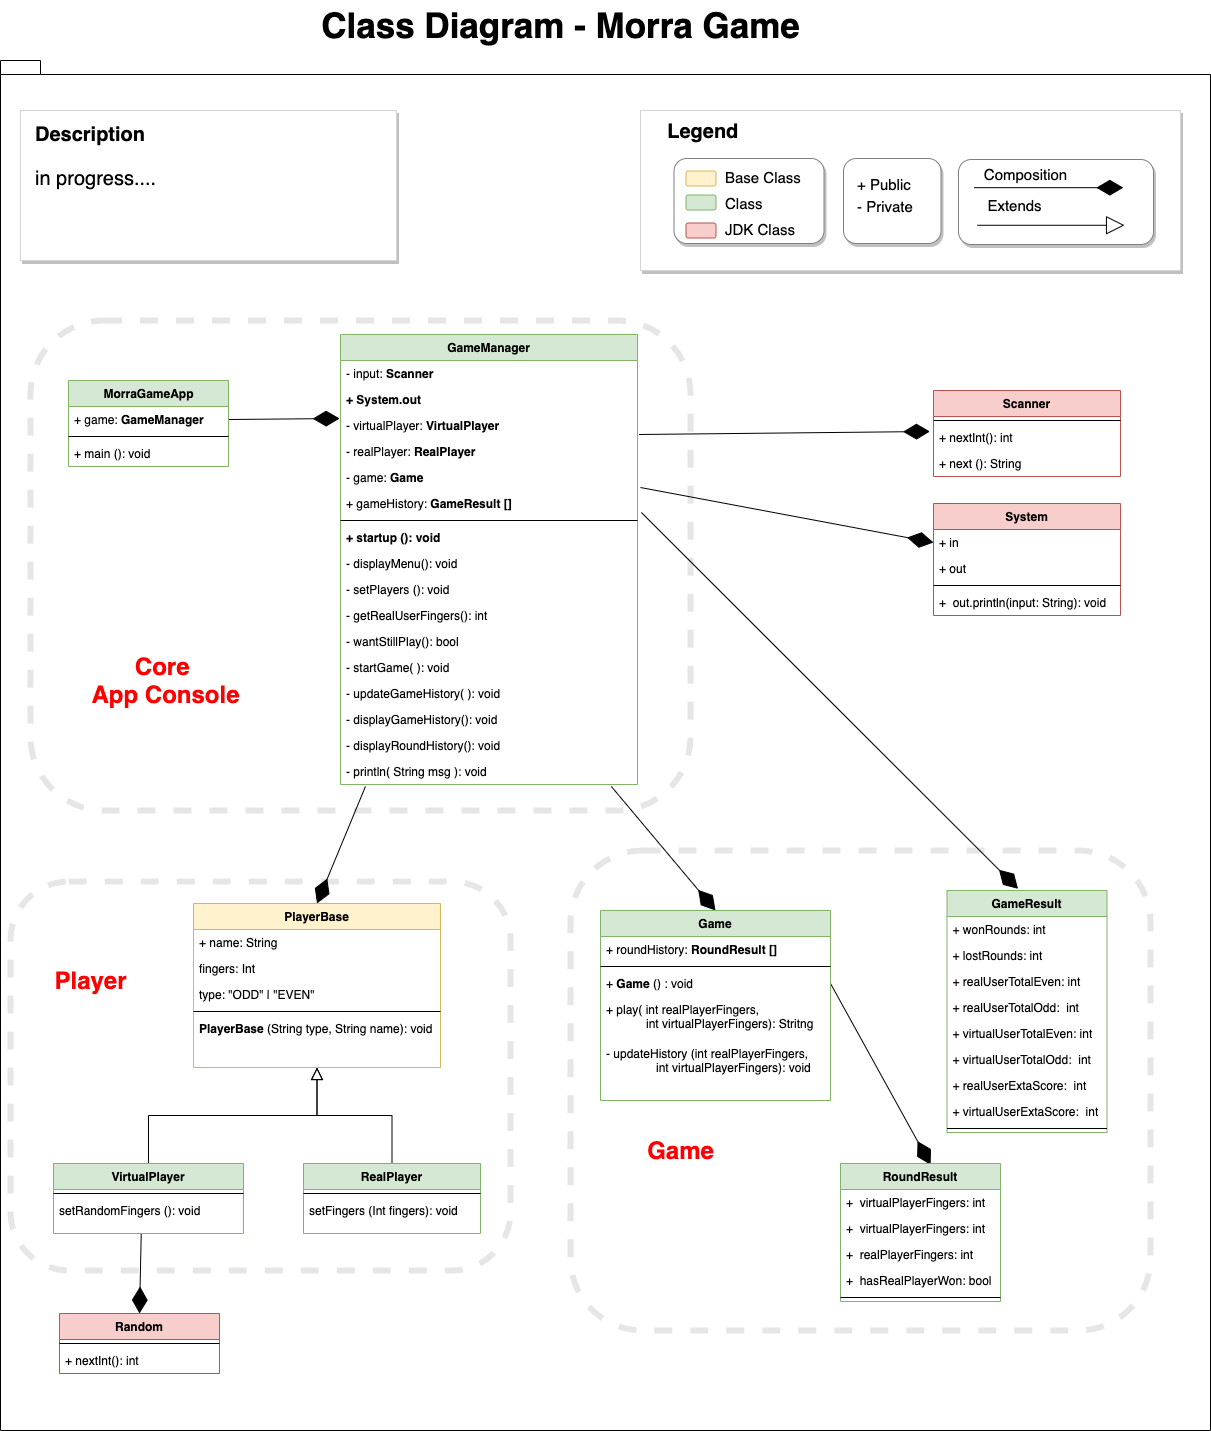
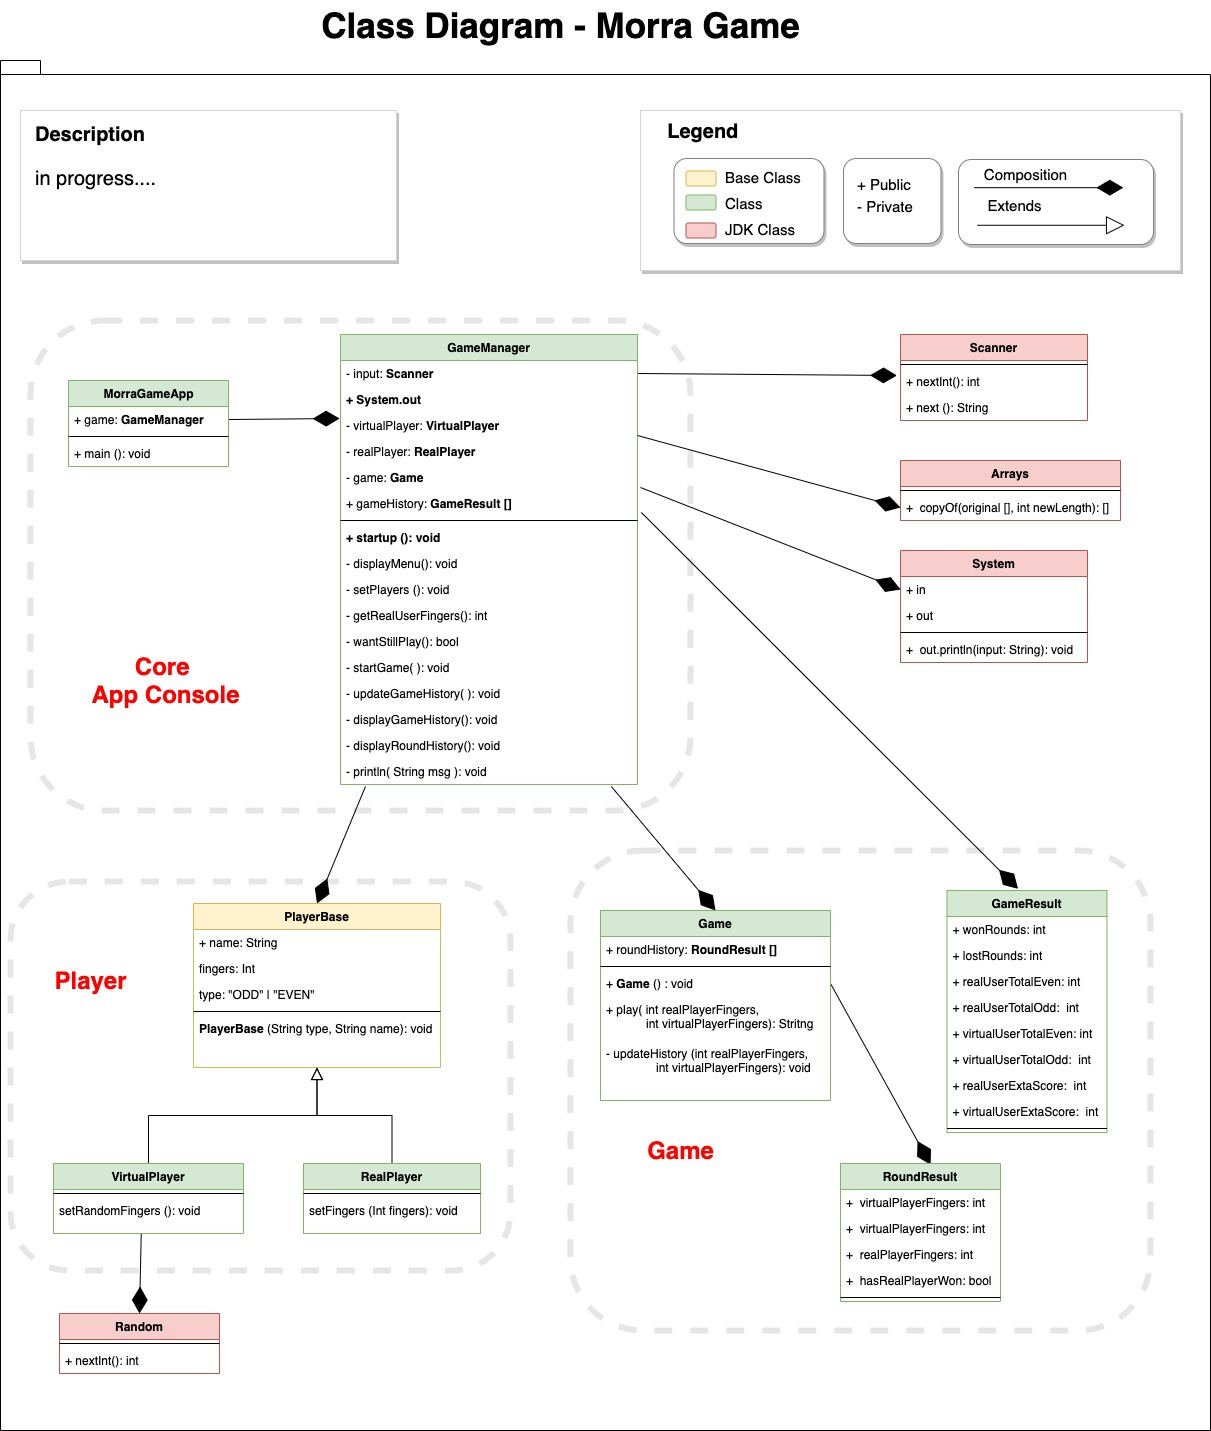
code refactoring: added array dinamic resize

diff --git a/src/GameManager.java b/src/GameManager.java
@@ -1,3 +1,4 @@
+import java.util.Arrays;
 import java.util.Scanner;
 
 public class GameManager {
@@ -7,6 +8,7 @@ public class GameManager {
     //
     RealPlayer realPlayer;
     GameResult[] gameHistory;
+    int historyCounter = 0;
 
     public GameManager() {
         sc = new Scanner(System.in);
@@ -90,8 +92,15 @@ public class GameManager {
     }
 
     private void updateGameHistory() {
+        if (historyCounter > gameHistory.length) {
+            gameHistory = Arrays.copyOf(gameHistory, gameHistory.length * 2);
+        }
+
         GameResult gameResult = new GameResult();
         gameResult.wonRounds = 5;
+
+        gameHistory[historyCounter] = gameResult;
+        historyCounter++;
     }
 
     // Rami: display the game history

diff --git a/README.md b/README.md
@@ -16,4 +16,8 @@ https://nodejs.org/en/download/
 -   `npm run java-dev` it combines `java-compile` and `java-compile` in one single
 
 UML CLASS DIAGRAM:
-![UML CLASS DIAGRAM](./docs/game-morra-diagram.jpg "UML CLASS DIAGRAM")
+![UML CLASS DIAGRAM IMAGE](./docs/game-morra-diagram.jpg "UML CLASS DIAGRAM")
+
+UML CLASS DIAGRAM Source
+https://app.diagrams.net/#G1hGi_mB3urb6xhiiI58UyscUojuXGqrPB
+Í
